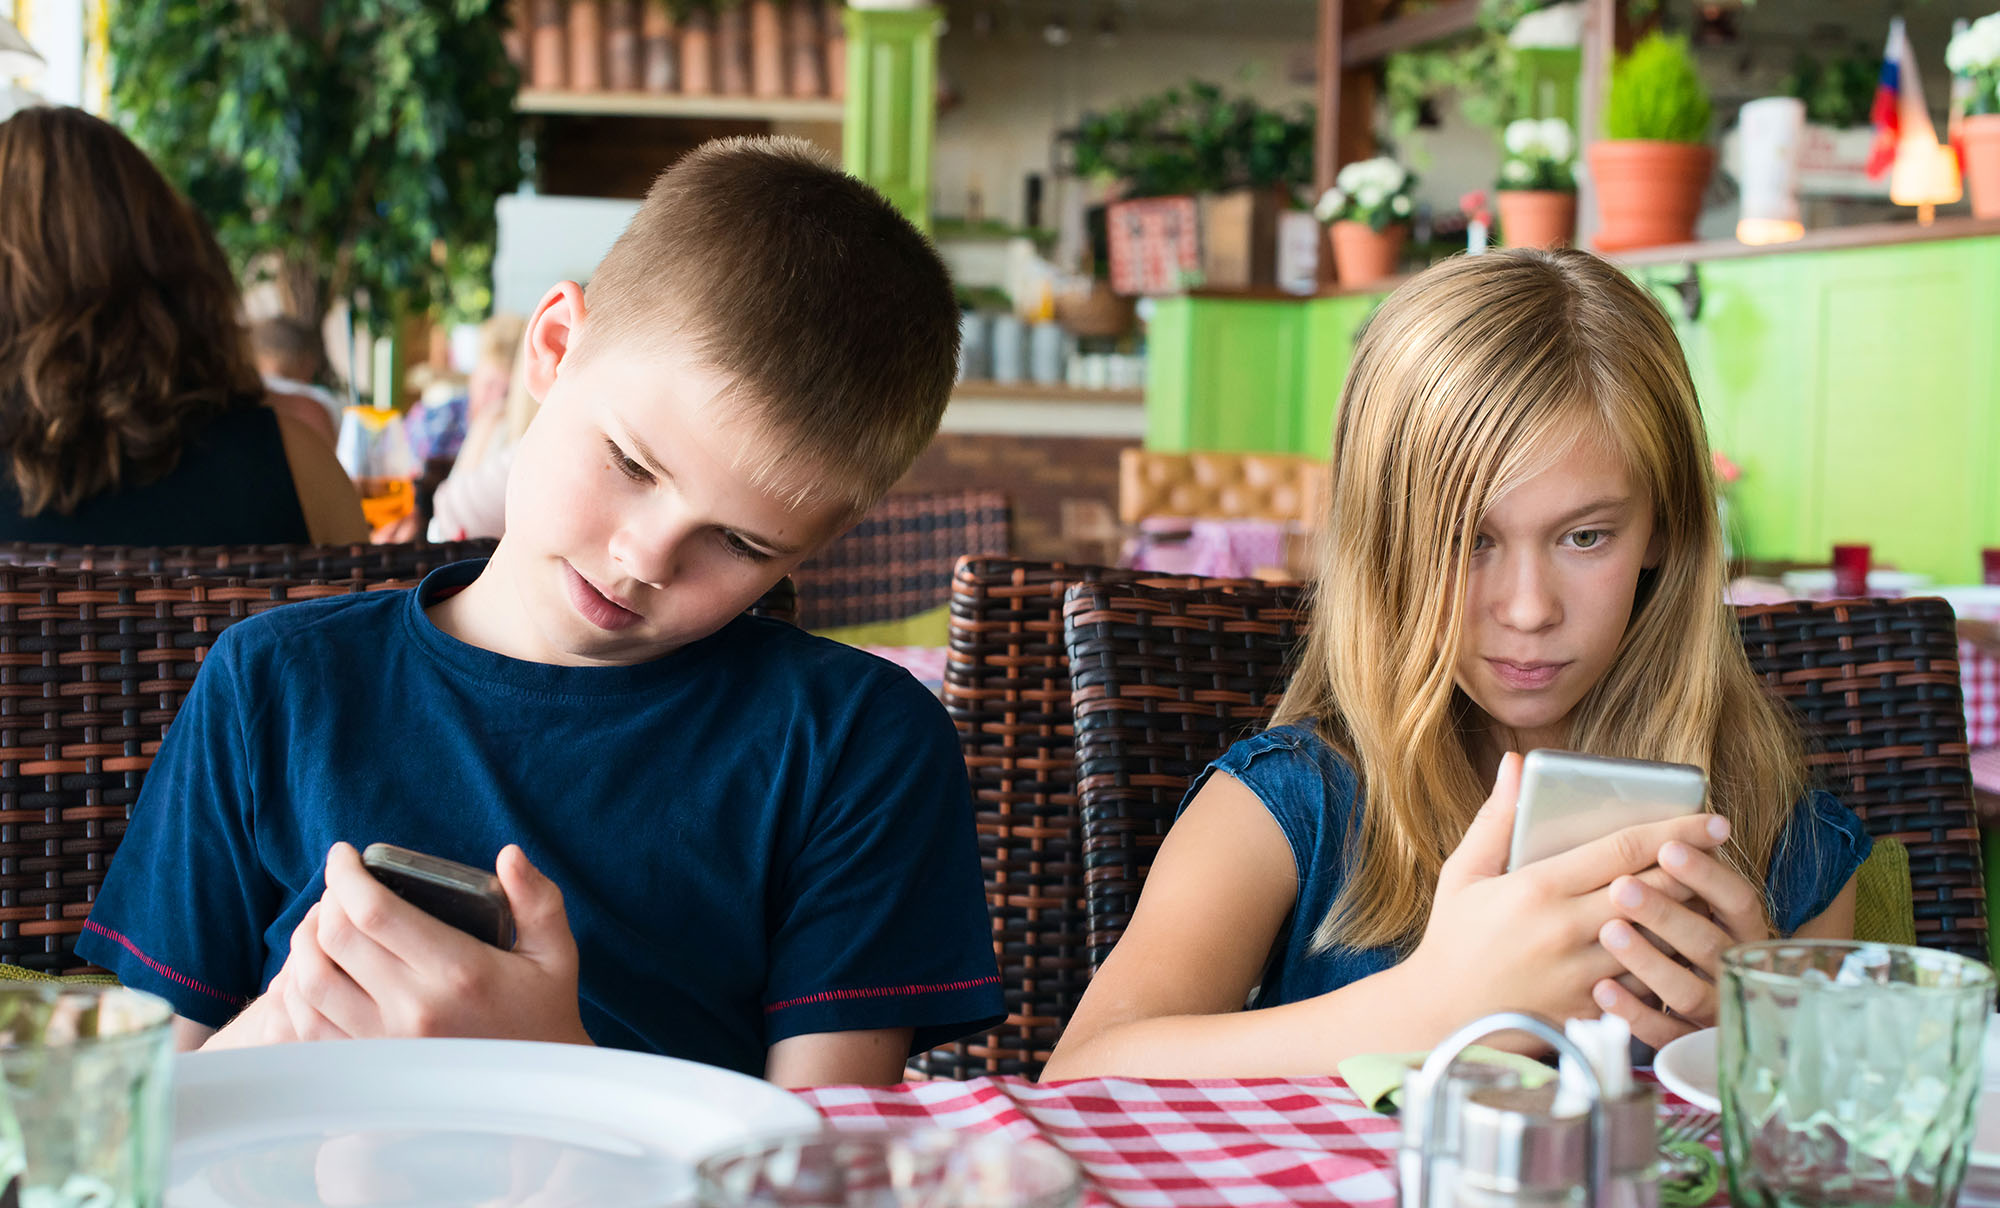
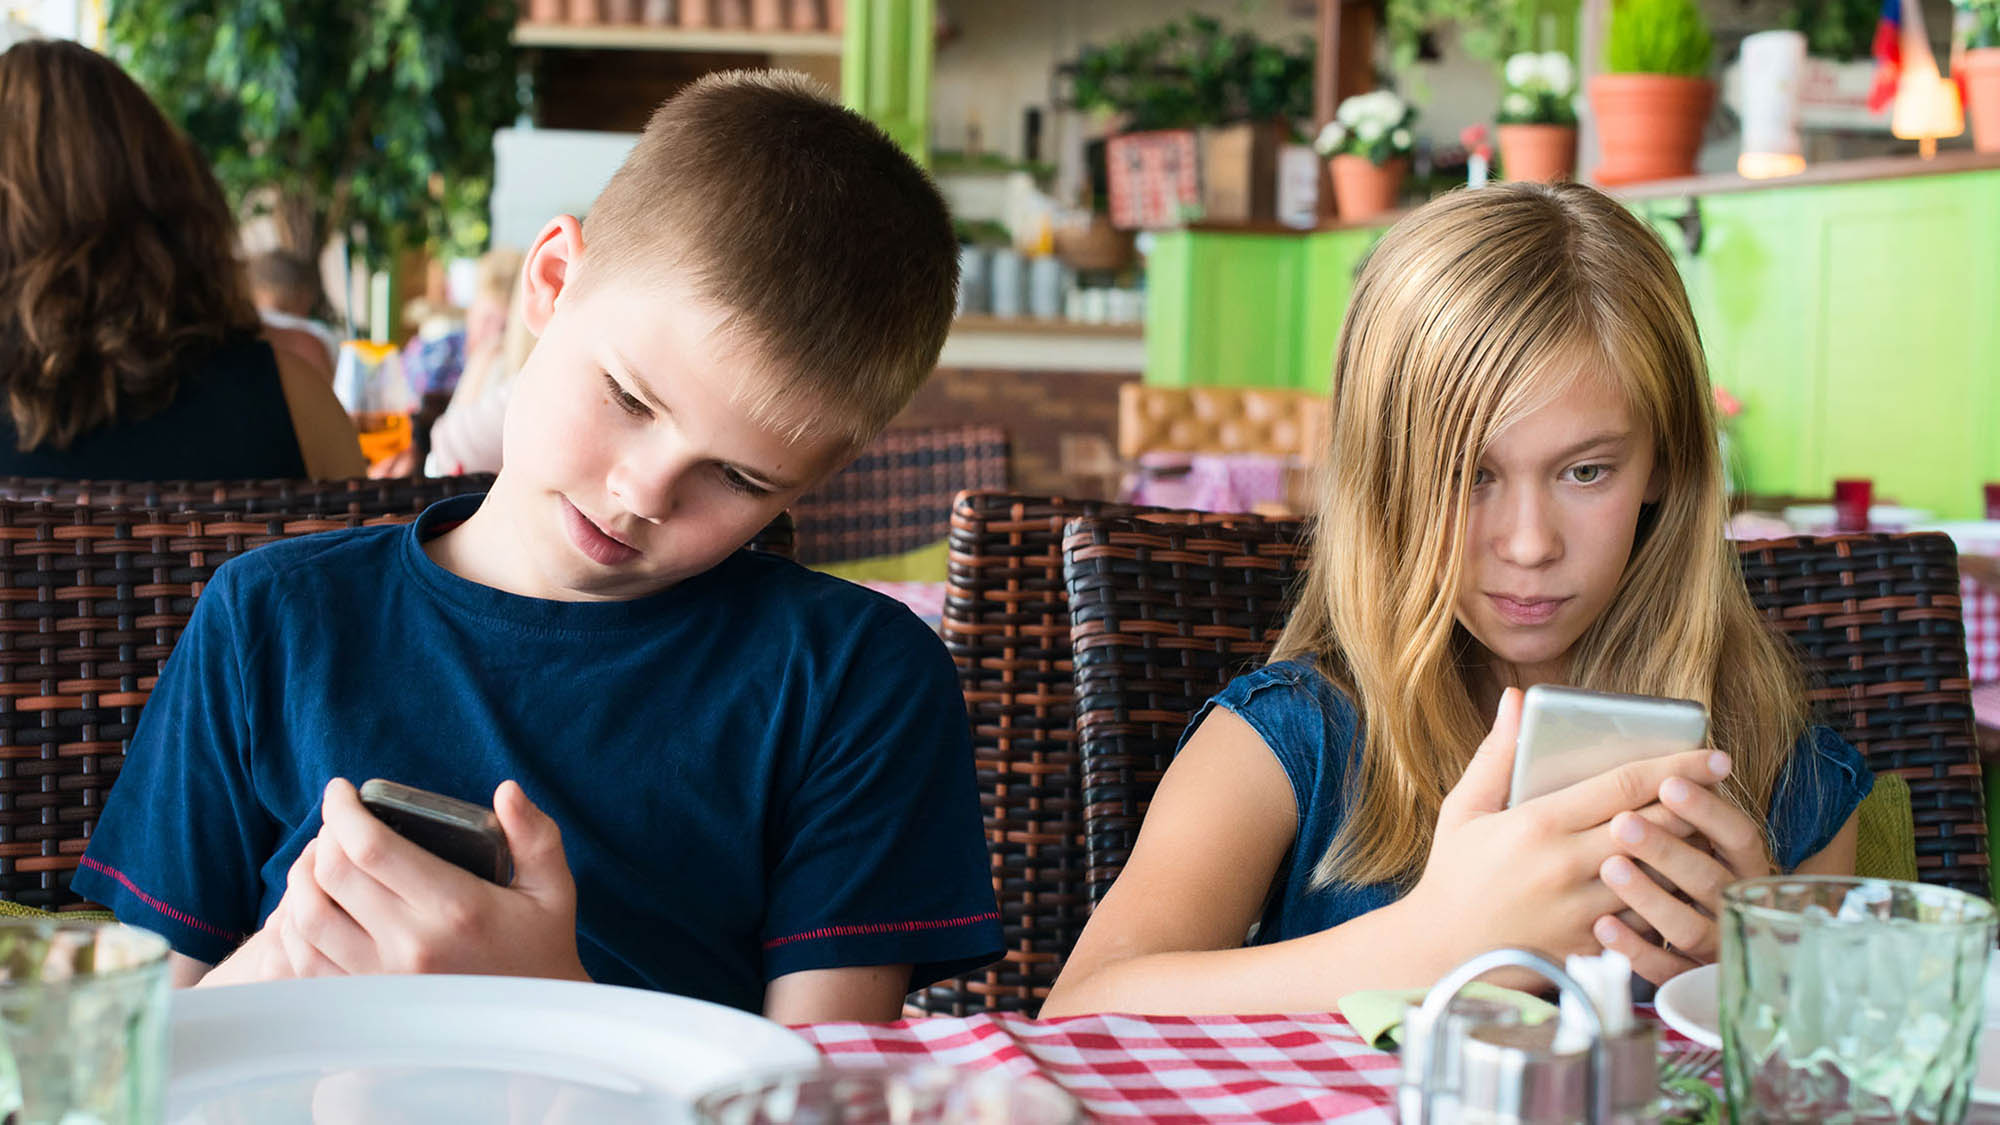
mercredi soir

diff --git a/css/main.css b/css/main.css
@@ -572,8 +572,12 @@ header {
     height: 100%;
     background: red;
     background: url("../img/article/header.jpg");
-    background-position: center bottom;
+    background-position: center center;
     background-size: cover; }
+    @media (max-width: 500px) {
+      header .header__bg {
+        background: url("../img/article/header-mobile.jpg");
+        background-position: center center !important; } }
   header .header__gradient {
     position: absolute;
     width: 100%;
@@ -975,9 +979,9 @@ section {
     section.encart .container {
       width: 90%;
       max-width: 1120px;
-      -webkit-column-count: 3;
-      -moz-column-count: 3;
-      column-count: 3;
+      -webkit-column-count: 2;
+      -moz-column-count: 2;
+      column-count: 2;
       -webkit-column-gap: 60px;
       /* Chrome, Safari, Opera */
       -moz-column-gap: 60px;
@@ -1165,7 +1169,7 @@ footer {
   .city.city4 {
     background: linear-gradient(51deg, rgba(0, 0, 0, 0.6) 0%, rgba(0, 0, 0, 0) 70%), url("../img/article/espagne.jpg"); }
   .city.city5 {
-    background: linear-gradient(51deg, rgba(0, 0, 0, 0.6) 0%, rgba(0, 0, 0, 0) 70%), url("../img/article/maurice.jpg"); }
+    background: linear-gradient(51deg, rgba(0, 0, 0, 0.8) 0%, rgba(0, 0, 0, 0) 90%), url("../img/article/maurice.jpg"); }
   .city .city-overlay {
     position: absolute;
     height: 100%;
@@ -1186,8 +1190,10 @@ footer {
     line-height: 0.5em; }
     @media (max-width: 500px) {
       .city .city-title {
-        font-size: 32px;
-        margin-top: 10px; } }
+        font-size: 22px;
+        line-height: 0.9em;
+        margin-top: 10px;
+        margin-bottom: 15px; } }
     .city .city-title span {
       font-size: 50%;
       font-weight: 400; }
@@ -1198,8 +1204,10 @@ footer {
     line-height: 30px; }
     @media (max-width: 500px) {
       .city .city-list {
-        font-size: 14px;
-        line-height: 25px; } }
+        font-size: 12px;
+        line-height: 25px; }
+        .city .city-list li {
+          margin-bottom: 7px; } }
 
 button {
   background: #ff4646;

diff --git a/css/_elements.scss b/css/_elements.scss
@@ -63,7 +63,7 @@
 
     &.city5
     {
-        background: linear-gradient(51deg, rgba(0,0,0,.6) 0%, rgba(0,0,0,0) 70%),
+        background: linear-gradient(51deg, rgba(0,0,0,.8) 0%, rgba(0,0,0,0) 90%),
           url('../img/article/maurice.jpg');
                     ;
     }
@@ -92,8 +92,10 @@
         line-height: 0.5em;
 
         @include breakpoint(xs) { 
-             font-size: 32px;
+             font-size: 22px;
+             line-height: 0.9em;
              margin-top: 10px;
+             margin-bottom: 15px;
         }
 
         span 
@@ -112,8 +114,10 @@
         line-height: 30px;
 
         @include breakpoint(xs) { 
-             font-size: 14px;
+             font-size: 12px;
              line-height: 25px;
+
+             li { margin-bottom: 7px}
         }
 
     }

diff --git a/css/_layout.scss b/css/_layout.scss
@@ -27,8 +27,13 @@ header
     	height: 100%;
     	background: red;
     	background: url('../img/article/header.jpg');  
-		background-position: center bottom;
+		background-position: center center;
 		background-size: cover;
+
+		@include breakpoint(xs) {  
+	        background: url('../img/article/header-mobile.jpg');  
+	        background-position: center center !important;    
+	    }
     }
 
     .header__gradient
@@ -831,9 +836,9 @@ section
 		{
 			width: 90%;
 			max-width: 1120px;
-			-webkit-column-count: 3; 
-		    -moz-column-count: 3; 
-		    column-count: 3;
+			-webkit-column-count: 2; 
+		    -moz-column-count: 2; 
+		    column-count: 2;
 
 		    -webkit-column-gap: 60px; /* Chrome, Safari, Opera */
 		    -moz-column-gap: 60px; /* Firefox */
